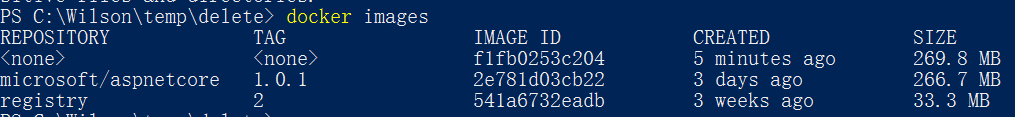
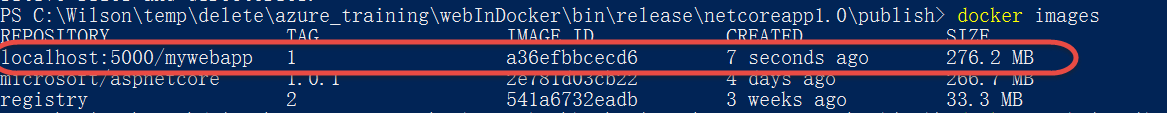
finished

diff --git a/docs/Hands-On Lab/build-docker-image-push-deploy.rst b/docs/Hands-On Lab/build-docker-image-push-deploy.rst
@@ -8,13 +8,28 @@
 
 使用Dockerfile生成docker image
 ~~~~~~~~~~~~~~~~~~~~~~~~~~~~~~~~
-在本地运行Power shell， 运行如下命令创建 docker image：
+
+依次运行如下脚本发布样例.Net Core Web Application：
 
 .. code-block:: text
 
-    docker build { 包含Dockerfile的文件夹地址 }
+    cd {.net core web application 项目目录}
+    dotnet restore
+    dotnet publish -c release
 
-在之前的本地使用docker调试.net core web application中，我们已经使用vs的docker插件自动添加了.net core web application的docker支持文件，其中就包括了Dockerfile，可以在Visual Studio中查看详细内容。
+运行结果如下：
+
+.. figure:: images/dot-net-core-publish.png
+
+根据上图显示的publish目录，运行如下命令：
+
+.. code-block:: text
+
+    cd {publish 目录}
+    docker build . -t localhost:5000/mywebapp:1.0
+
+
+在之前的本地使用docker调试.net core web application中，我们已经使用vs的docker插件自动添加了.net core web application对docker的支持文件，其中就包括了Dockerfile，可以在Visual Studio中查看详细内容。
 
 命令运行结果：
 
@@ -30,25 +45,16 @@ docker image创建完成后，运行如下命令：
 
 .. figure:: images/docker-images.png
 
-其中ID为f1fb0253c204的image就是上个步骤中使用docker build命令创建的image。
+其中Repository为localhost:5000/mywebapp的image就是上个步骤中使用docker build命令创建的image。
 名称为registry的image是我们在本地部署registry时下载的registry image。
-名称为microsoft/aspnetcore的image是一个依赖image，生成的.net core web application会包含这个image。
 
 将Image推送到本地registry中
 ~~~~~~~~~~~~~~~~~~~~~~~~~~~~~~~~
-创建image后为image打标记，以指定image的repository，这样可以通过repository的前缀指定将image上传到私有的registry中。运行命令如下：
+创建image后运行如下命令，将docker image推送到本地registry中：
 
 .. code-block:: text
 
-    docker tag {image id} localhost:5000/aspnetcore:latest
-
-然后在运行 docker images命令，可以看到image的repository已经改为localhost:5000/aspnetcore，tag为latest。
-
-现在运行docker push命令，将repository中的内容push到docker registry中，命令脚本如下：
-
-.. code-block:: text
-
-    docker push localhost:5000/aspnetcore
+    docker push localhost:5000/mywebapp:1
 
 运行结果：
 
@@ -62,19 +68,27 @@ docker image创建完成后，运行如下命令：
 .. code-block:: text
 
     docker-machine ls
-    docker-machine ssh {azure docker host name}
+    docker-machine env {azure docker host name} | Invoke-Expression 
     docker pull 
+    docker run -p 8080:80 localhost:5000/mywebapp:1 -d
+    docker ps
 
 
-
-运行结果：
-
-.. figure:: images/create-docker-registry.png
-
-可以在本地调用docker ps命令查看已经启动的容器，稍后我们会将build出来的docker image放入这个容器中。
+调用docker ps命令查看已经启动的容器，其中就包含我们刚刚启动的docker容器。
 
 .. figure:: images/docker-ps.png
 
+
+在Azure上打开8080端口并在本地访问
+~~~~~~~~~~~~~~~~~~~~~~~~~~~~~~~~~~~~~~~~~~~~~~~~
+
+点击 `这里<https://portal.azure.cn/>` 登录Azure门户。 登陆后在所有资源中找到自己创建的docker host的firewall。
+
+.. figure:: images/azure-docker-host-firewall.png
+
+.. figure:: images/azure-docker-host-add-inbound.png
+
+在本地打开浏览器访问http://{docker host ip}:8080
 
 
 

diff --git a/docs/Hands-On Lab/docker-host-tfs-agent.rst b/docs/Hands-On Lab/docker-host-tfs-agent.rst
@@ -5,7 +5,6 @@
     
     文档内容将与Docker v1.12.1保持同步，请确保你所使用的Docker版本与本文档的适用范围一致，再参照本文档进行Docker的安装和配置，以防出现联系过程中系统不对称导致的问题。
 
-
 在Azure docker host上安装并启动TFS Agent
 ~~~~~~~~~~~~~~~~~~~~~~~~~~~~~~~~~~~~~~~~~~~~~~~~
 
@@ -26,4 +25,32 @@
 
 配置过程中输入的参数分别为：
 1. 
+
+
+在Azure docker host上安装并启动TFS Agent
+~~~~~~~~~~~~~~~~~~~~~~~~~~~~~~~~~~~~~~~~~~~~~~~~
+
+运行如下命令登录到docker host上：
+
+.. code-block:: text
+
+    docker-machine ls
+    docker-machine ssh {azure docker host name}
+    sudo -i
+    mkdir /tfsagent
+    cd /tfsagent
+    wget http://tfs.devopshub.cn:8080/tfs/vsts-agent-ubuntu.16.04-x64-2.105.6.tar.gz --user user1 --password P2ssw0rd
+    tar zxvf vsts-agent-ubuntu.16.04-x64-2.105.6.tar.gz
+    rm vsts-agent-ubuntu.16.04-x64-2.105.6.tar.gz
+    ./config.sh
+    ./run.sh
+
+配置过程中输入的参数分别为：
+
+    - 输入 **Y**,  同意Licens
+    - server URL: http://tfs.devopshub.cn:8080/tfs
+    - authentication type, 使用默认
+    - 输入用户名，密码
+    - agent pool: default
+    - agent name: {user name}+agent, 例如 user1agent
 

diff --git a/docs/Hands-On Lab/config-local-environment.rst b/docs/Hands-On Lab/config-local-environment.rst
@@ -30,6 +30,7 @@
 
 安装DotNetCore.1.0.1-VS2015Tools
 ~~~~~~~~~~~~~~~~~~~~~~~~~~~~~~~~~~~~~~~~~~~~~~~~
+
 确认Docker for Windows正确启动后安装DotNetCore.1.0.1-VS2015Tools.Preview2.0.2.exe。安装程序会自动安装.Net Core SDK。 
 
 .. attention::
@@ -44,9 +45,27 @@
 
 安装DockerVSTools
 ~~~~~~~~~~~~~~~~~~~~~~~~
+
 确认安装DotNetCore.1.0.1-VS2015Tools后才能安装DockerVSTools。
 
-双击安装程序启动安装向导DockerVSTools.VS140.exe。
+双击安装程序，启动DockerVSTools.VS140.exe安装向导。
+
+安装Node.js
+~~~~~~~~~~~~~~~~~~~~~~~~
+
+双击安装程序，启动node-v4.6.0-x64.msi安装向导，选择默认安装。
+
+安装完成后依次运行如下命令：
+
+.. code-block:: text
+
+    npm install bower -g
+    bower
+
+
+运行bower命令后应该输出：
+
+.. figure:: images/install-bower.png
 
 
 
